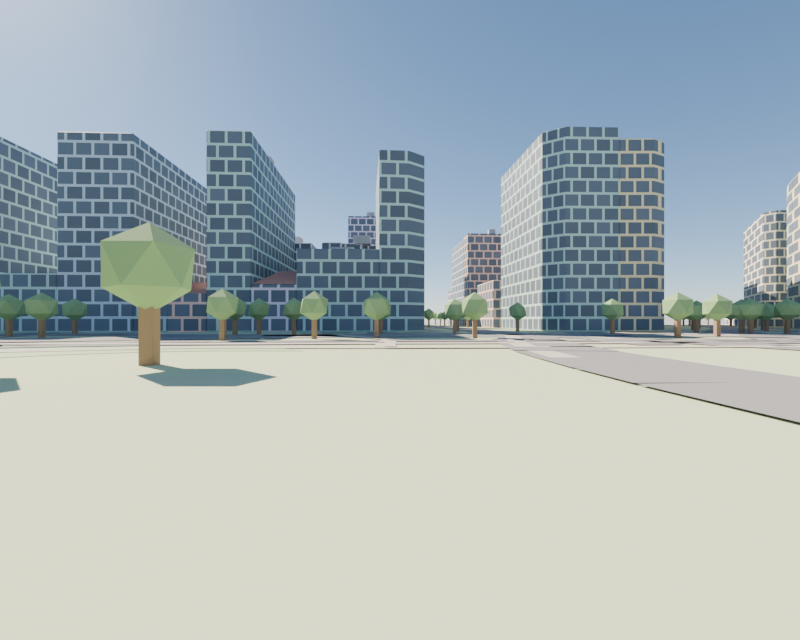
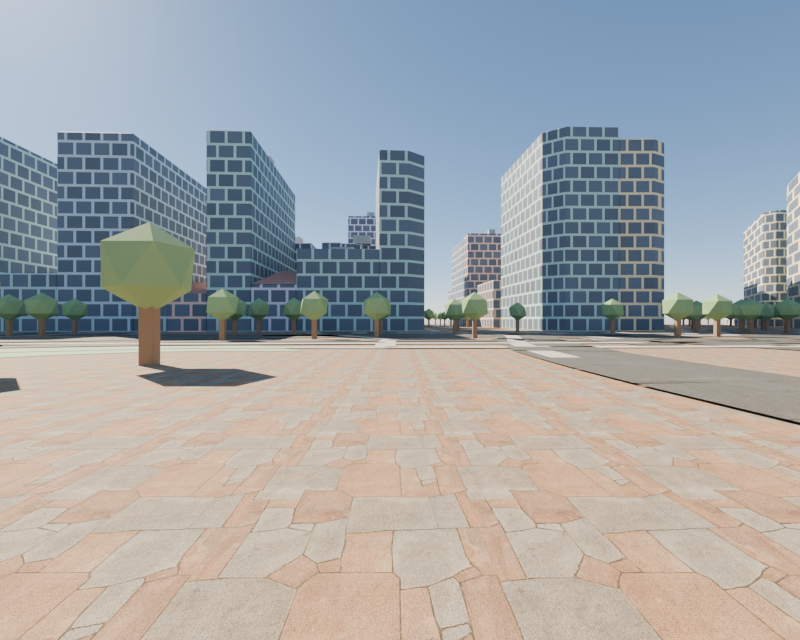
Wire real textures into ground/roads + add get_textures.py downloader
- Ground uses pavement texture, greyish roads use asphalt, when MAPS3D_TEXTURES
  is set (flat-color fallback otherwise).
- scripts/get_textures.py fetches the CC0 PolyHaven textures and prints the env
  var to export, making the textured mode turnkey.
- Refresh street example with the textured render (pavement + asphalt + windows
  + trees + physical sky).

Claude-Session: https://claude.ai/code/session_01McqW6exN73KnoBEBxDXuoM

diff --git a/scripts/get_textures.py b/scripts/get_textures.py
@@ -1,0 +1,54 @@
+#!/usr/bin/env python3
+"""
+get_textures.py — baja texturas CC0 de PolyHaven para el modo texturizado.
+
+Uso:
+    python3 scripts/get_textures.py [carpeta_destino]   # default: ./textures
+    export MAPS3D_TEXTURES="$(pwd)/textures"
+
+Con MAPS3D_TEXTURES seteada, blender_build.py usa asfalto real en las calles y
+pavimento real en el piso (en vez de colores planos). Todo CC0 (uso libre).
+"""
+import os
+import sys
+
+try:
+    import requests
+except ImportError:
+    sys.exit("Falta 'requests': python3 -m pip install requests")
+
+# archivo local -> asset de PolyHaven
+ASSETS = {
+    "asphalt.jpg": "asphalt_02",
+    "pavement.jpg": "pavement_02",
+    "concrete.jpg": "concrete_wall_008",
+}
+RES = "1k"  # resolucion (1k liviano; 2k/4k para mas detalle)
+
+
+def diffuse_url(asset, res=RES):
+    d = requests.get(f"https://api.polyhaven.com/files/{asset}", timeout=30).json()
+    return d["Diffuse"][res]["jpg"]["url"]
+
+
+def main():
+    out = sys.argv[1] if len(sys.argv) > 1 else "textures"
+    os.makedirs(out, exist_ok=True)
+    for fname, asset in ASSETS.items():
+        dest = os.path.join(out, fname)
+        try:
+            url = diffuse_url(asset)
+            print(f"bajando {asset} ({RES}) -> {dest}")
+            r = requests.get(url, timeout=90)
+            r.raise_for_status()
+            with open(dest, "wb") as f:
+                f.write(r.content)
+        except Exception as e:
+            print(f"  (falló {asset}: {e})")
+    print("\nListo. Ahora:")
+    print(f'  export MAPS3D_TEXTURES="{os.path.abspath(out)}"')
+    print("y volvé a correr place_to_3d.py / blender_build.py")
+
+
+if __name__ == "__main__":
+    main()

diff --git a/scripts/blender_build.py b/scripts/blender_build.py
@@ -489,7 +489,12 @@ def build_scene(scene):
             add_road_strip(bm, r["path"], float(r["width"]), z + jitter)
             if z > 1.0:  # es un puente elevado -> agregar pilares hasta el piso
                 add_bridge_piers(bm, r["path"], z)
-        mat = make_material(f"road_{i}", k, roughness=0.9, specular=0.08)
+        greyish = (max(k) - min(k) < 0.06 and sum(k) / 3 < 0.4)
+        asphalt = _tex("asphalt.jpg")
+        if greyish and asphalt:
+            mat = make_textured_material(f"road_{i}", asphalt, tile_m=6.0, roughness=0.85)
+        else:
+            mat = make_material(f"road_{i}", k, roughness=0.9, specular=0.08)
         bm_to_object(bm, f"Calles_{i}", mat)
 
     # --- Arboles (plazas + veredas de avenidas) ---
@@ -523,7 +528,12 @@ def build_scene(scene):
     v3 = bm.verts.new((maxx + margin, maxy + margin, 0.0))
     v4 = bm.verts.new((minx - margin, maxy + margin, 0.0))
     bm.faces.new((v1, v2, v3, v4))
-    bm_to_object(bm, "Piso", make_material("Piso", GROUND_COLOR, roughness=0.95, specular=0.05))
+    pav = _tex("pavement.jpg")
+    if pav:
+        piso_mat = make_textured_material("Piso", pav, tile_m=3.0, roughness=0.92)
+    else:
+        piso_mat = make_material("Piso", GROUND_COLOR, roughness=0.95, specular=0.05)
+    bm_to_object(bm, "Piso", piso_mat)
 
     return cx, cy, R
 